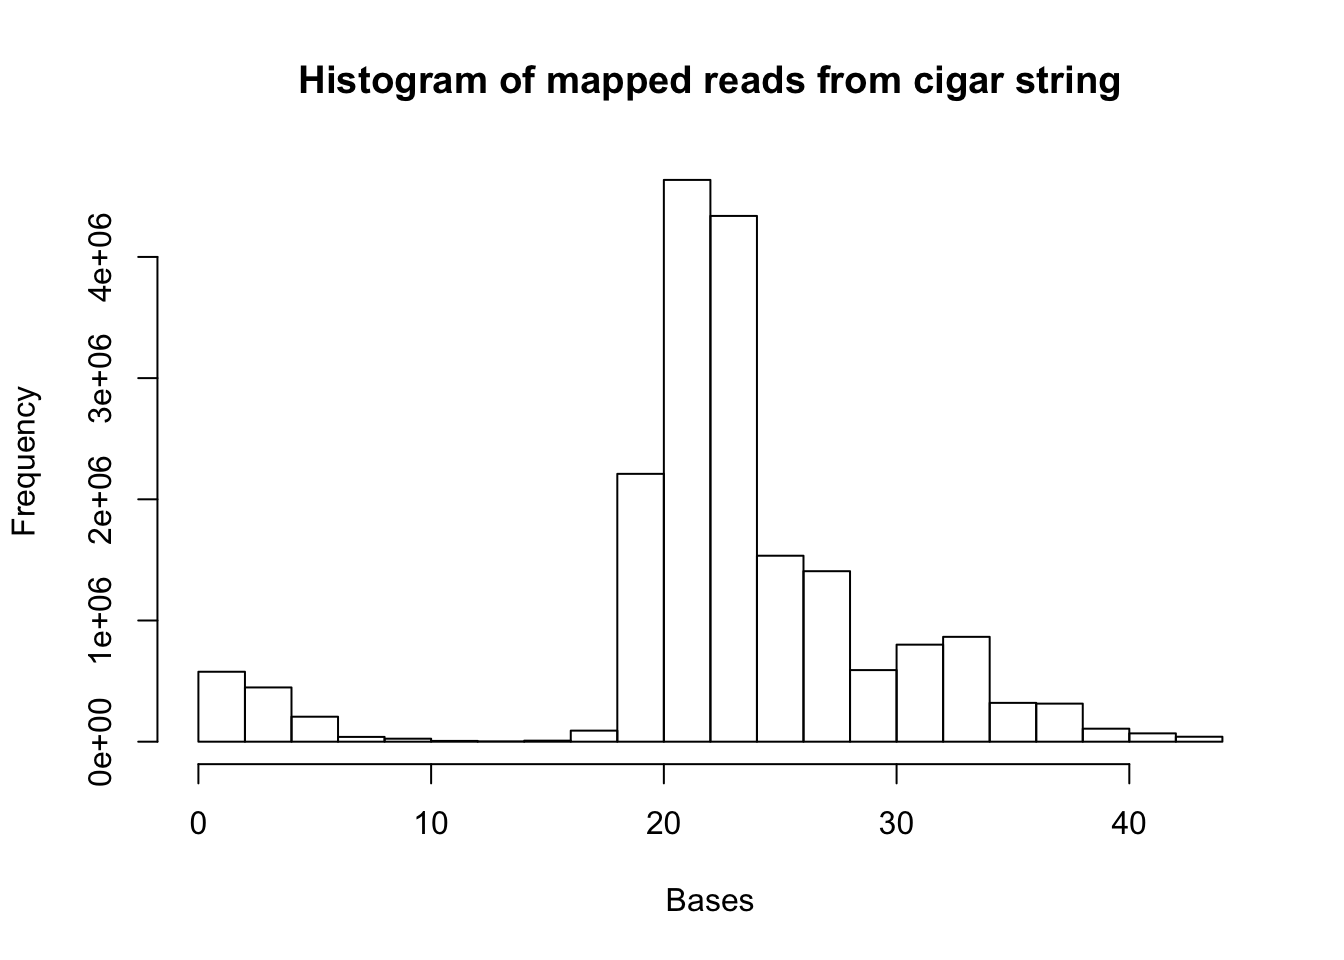
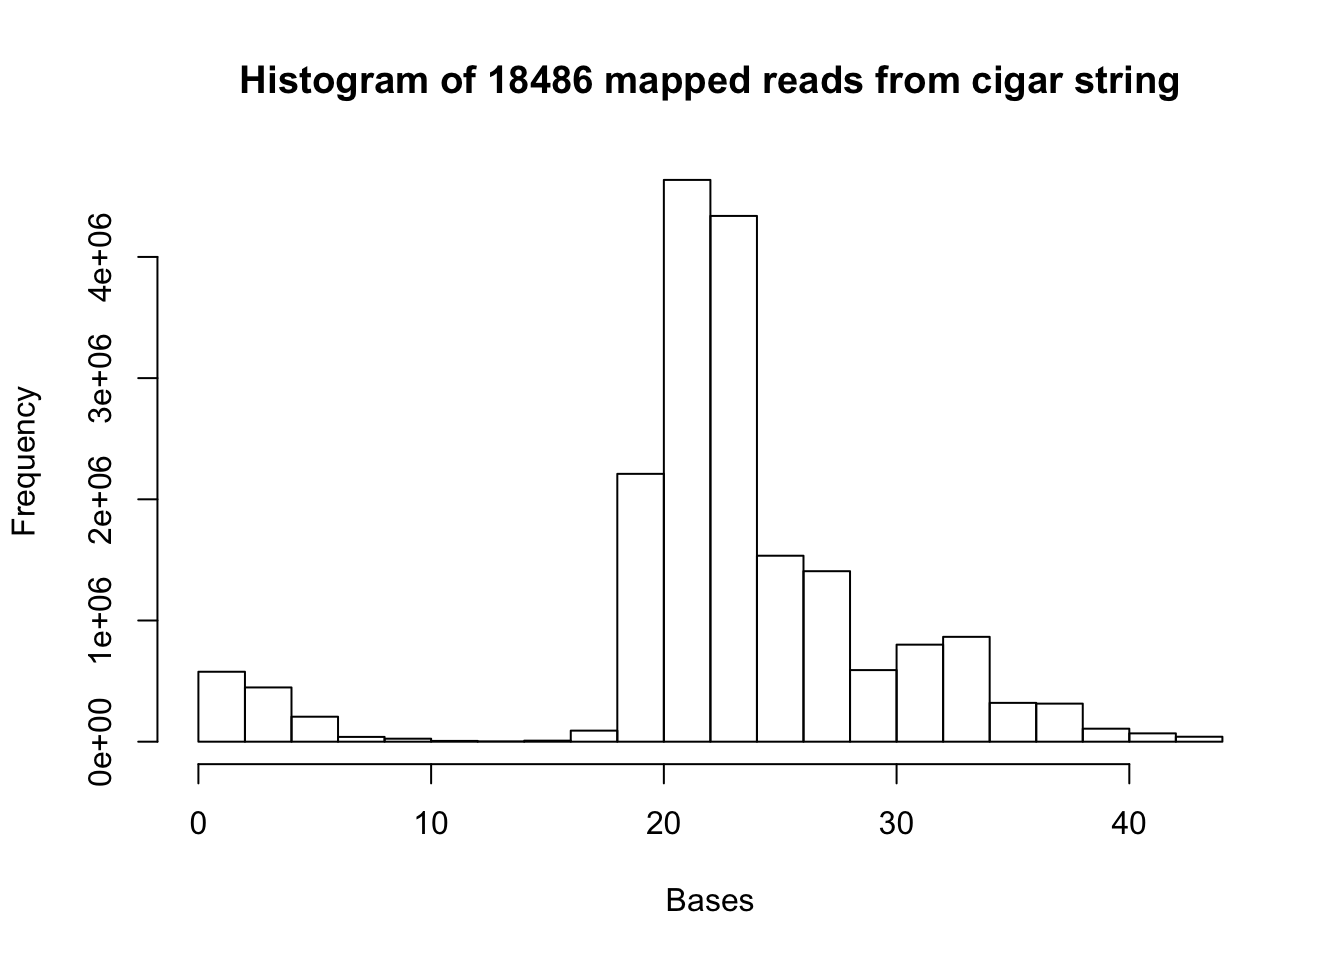
Build site.

Changed region(s): [[0.1562, 0.0625, 0.875, 0.125]]

diff --git a/docs/map_stats_from_bam.html b/docs/map_stats_from_bam.html
@@ -313,10 +313,10 @@ div.tocify {
 shared across the workflowr files. -->
 <!-- Update knitr chunk options -->
 <!-- Insert the date the file was last updated -->
-<p><strong>Last updated:</strong> 2017-11-16</p>
+<p><strong>Last updated:</strong> 2017-11-17</p>
 <!-- Insert the code version (Git commit SHA1) if Git repository exists and R
  package git2r is installed -->
-<p><strong>Code version:</strong> 14e1622</p>
+<p><strong>Code version:</strong> e0af49e</p>
 <div id="mapped-stats" class="section level3">
 <h3>Mapped stats</h3>
 <p>Goal: Extract the number of bases that mapped and were soft clipped from bam files and make a histogram</p>
@@ -360,7 +360,7 @@ mapped_num.close()
 </code></pre>
 <pre class="r"><code>mapped=read.csv(&quot;../data/mapped_18486_dep.txt&quot;, header=FALSE)
 map.vec= as.vector(mapped[,1])
-hist(map.vec, xlab=&quot;Bases&quot;, main=&quot;Histogram of mapped reads from cigar string&quot;)</code></pre>
+a= hist(map.vec, xlab=&quot;Bases&quot;, main=&quot;Histogram of 18486 mapped reads from cigar string&quot;)</code></pre>
 <p><img src="figure/map_stats_from_bam.Rmd/unnamed-chunk-3-1.png" width="672" style="display: block; margin: auto;" /></p>
 <pre class="r"><code>summary(map.vec)</code></pre>
 <pre><code>   Min. 1st Qu.  Median    Mean 3rd Qu.    Max. 
@@ -443,6 +443,77 @@ hist(clip.vec, xlab=&quot;Bases&quot;, main=&quot;Histogram of clipped reads fro
 </div>
 <div id="make-this-code-general" class="section level3">
 <h3>Make this code general</h3>
+<p>Use the sys.argv[1] command to pass in arguments from the command line. This script will generalize my get_mapped.py</p>
+<pre class="python"><code>#!/usr/bin/env python
+import sys
+import pysam
+import re
+
+file_name = sys.argv[1]
+out_file = sys.argv[2]
+
+
+#use by passing a sorted bam file, an output text file 
+
+
+mapped_num = open(out_file, &quot;w&quot;)
+file_bam_open= open(file_name, &quot;r&quot;)
+file_bam= pysam.AlignmentFile(file_bam_open, &quot;rb&quot;)
+def get_mapped(file):
+  out=[]
+  for read in file.fetch():
+      read= str(read)
+      cigar= read.split()[5] #python starts at 0
+      num= re.findall(&quot;\d+M&quot;, cigar) #this gives me each &quot;##M&quot; in the cigar
+      for i in num:
+        out.append(i[:-1])
+  return(out)
+
+a= get_mapped(file_bam)
+
+mapped_num.write(&quot;\n&quot;.join(a))
+
+mapped_num.close()</code></pre>
+<pre class="bash"><code>./get_mapped.py /project2/gilad/briana/Net-seq/Net-seq1/data/sort/YG-SP-NET1-18508-dep-2017-10-13_S2_R1_001-sort.bam mapped_18508_dep.txt
+
+
+./get_mapped.py /project2/gilad/briana/Net-seq/Net-seq1/data/sort/YG-SP-NET1-Unk1_S6_R1_001-sort.bam mapped_19238_dep.txt
+
+
+/project2/gilad/briana/Net-seq/Net-seq1/data/sort/get_mapped.py /project2/gilad/briana/Net-seq/data/sort/SRR1575922-sort.bam  /project2/gilad/briana/Net-seq/data/sort/mapped_mayer.txt </code></pre>
+<pre class="r"><code>mapped_mayer=read.csv(&quot;../data/mapped_mayer.txt&quot;, header=FALSE)
+map.mayer.vec= as.vector(mapped_mayer[,1])
+d= hist(map.mayer.vec, xlab=&quot;Bases&quot;, main=&quot;Histogram of mayer mapped reads from cigar string&quot;)</code></pre>
+<p><img src="figure/map_stats_from_bam.Rmd/unnamed-chunk-10-1.png" width="672" style="display: block; margin: auto;" /></p>
+<pre class="r"><code>summary(map.mayer.vec)</code></pre>
+<pre><code>   Min. 1st Qu.  Median    Mean 3rd Qu.    Max. 
+    1.0    21.0    32.0    28.1    38.0    70.0 </code></pre>
+<pre class="r"><code>mapped_18508=read.csv(&quot;../data/mapped_18508_dep.txt&quot;, header=FALSE)
+map.18508.vec= as.vector(mapped_18508[,1])
+b= hist(map.18508.vec, xlab=&quot;Bases&quot;, main=&quot;Histogram of 18508 mapped reads from cigar string&quot;)</code></pre>
+<p><img src="figure/map_stats_from_bam.Rmd/unnamed-chunk-11-1.png" width="672" style="display: block; margin: auto;" /></p>
+<pre class="r"><code>summary(map.18508.vec)</code></pre>
+<pre><code>   Min. 1st Qu.  Median    Mean 3rd Qu.    Max. 
+   1.00   13.00   22.00   19.21   23.00   44.00 </code></pre>
+<pre class="r"><code>mapped_19238=read.csv(&quot;../data/mapped_19238_dep.txt&quot;, header=FALSE)
+map.19238.vec= as.vector(mapped_19238[,1])
+c= hist(map.19238.vec, xlab=&quot;Bases&quot;, main=&quot;Histogram of 19238 mapped reads from cigar string&quot;)</code></pre>
+<p><img src="figure/map_stats_from_bam.Rmd/unnamed-chunk-12-1.png" width="672" style="display: block; margin: auto;" /></p>
+<pre class="r"><code>summary(map.19238.vec)</code></pre>
+<pre><code>   Min. 1st Qu.  Median    Mean 3rd Qu.    Max. 
+   1.00   13.00   22.00   19.41   23.00   44.00 </code></pre>
+</div>
+<div id="all-of-the-histograms" class="section level3">
+<h3>All of the histograms:</h3>
+<pre class="r"><code>par(mfrow = c(2,2))
+hist(map.vec, xlab=&quot;Bases&quot;, main=&quot;Histogram of 18486 mapped reads&quot;)
+hist(map.18508.vec, xlab=&quot;Bases&quot;, main=&quot;Histogram of 18508 mapped reads&quot;)
+hist(map.19238.vec, xlab=&quot;Bases&quot;, main=&quot;Histogram of 19238 mapped reads&quot;)
+hist(map.mayer.vec, xlab=&quot;Bases&quot;, main=&quot;Histogram of mayer reads&quot;)</code></pre>
+<p><img src="figure/map_stats_from_bam.Rmd/unnamed-chunk-13-1.png" width="672" style="display: block; margin: auto;" /></p>
+</div>
+<div id="extract-the-softclipped-regions" class="section level3">
+<h3>Extract the softclipped regions</h3>
 </div>
 <div id="session-information" class="section level3">
 <h3>Session information</h3>
